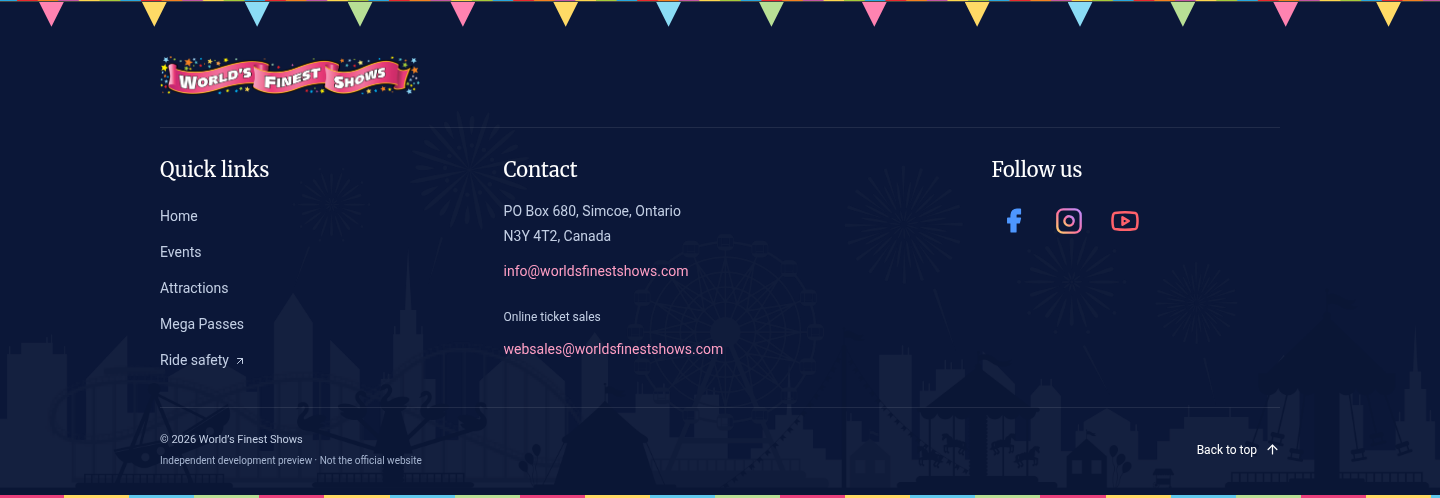
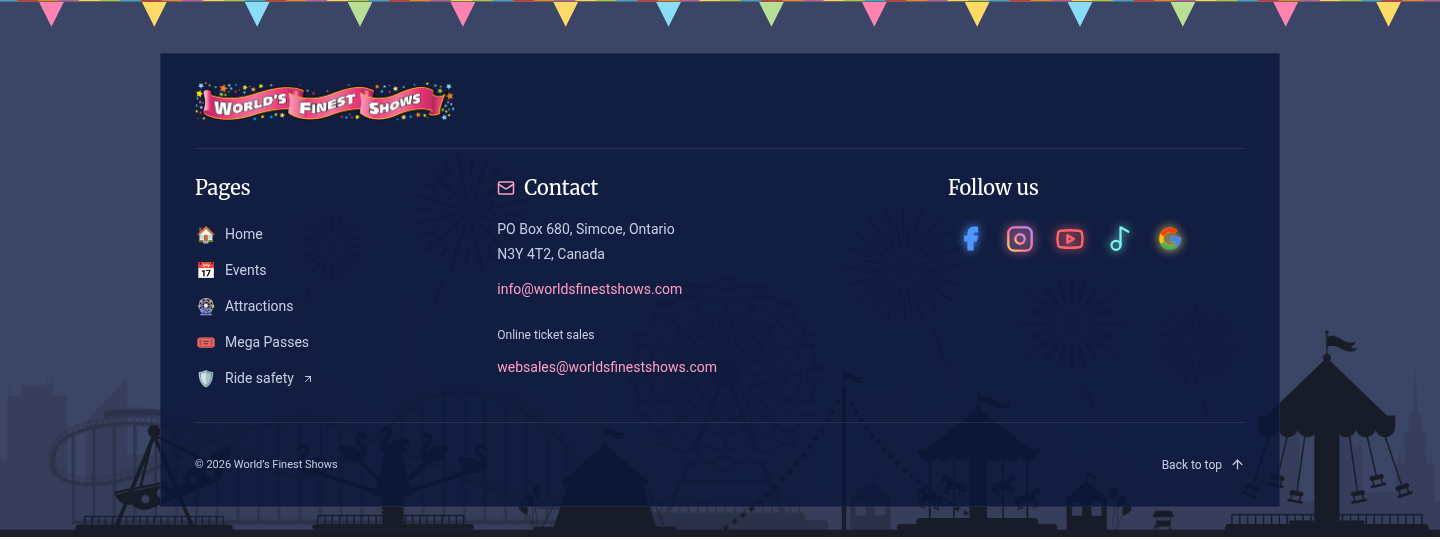
feat: frame footer on reference background and compact newsletter

diff --git a/src/components/Footer.tsx b/src/components/Footer.tsx
@@ -1,6 +1,5 @@
 import {
   Mail,
-  Link,
   Music2,
   ArrowUp,
   ArrowUpRight,
@@ -33,7 +32,7 @@ export function Footer({
         ))}
       </div>
 
-      <div className="container">
+      <div className="container footer-frame">
         <a
           className="footer-brand"
           href="#home"
@@ -53,21 +52,40 @@ export function Footer({
             className="footer-links"
             aria-labelledby="footer-links-title"
           >
-            <h2 id="footer-links-title">
-              <Link size={18} aria-hidden="true" /> Quick links
-            </h2>
+            <h2 id="footer-links-title">Pages</h2>
             <nav aria-label="Footer navigation">
-              <a href="#home">Home</a>
-              <a href="#events">Events</a>
+              <a href="#home">
+                <span className="footer-page-emoji" aria-hidden="true">
+                  🏠
+                </span>
+                Home
+              </a>
+              <a href="#events">
+                <span className="footer-page-emoji" aria-hidden="true">
+                  📅
+                </span>
+                Events
+              </a>
               <a href="#attractions" onClick={onExploreAttractions}>
+                <span className="footer-page-emoji" aria-hidden="true">
+                  🎡
+                </span>
                 Attractions
               </a>
-              <a href="#passes">Mega Passes</a>
+              <a href="#passes">
+                <span className="footer-page-emoji" aria-hidden="true">
+                  🎟
+                </span>
+                Mega Passes
+              </a>
               <a
                 href="https://www.worldsfinestshows.com/ride-safety/"
                 target="_blank"
                 rel="noreferrer"
               >
+                <span className="footer-page-emoji" aria-hidden="true">
+                  🛡
+                </span>
                 Ride safety <ArrowUpRight size={12} />
               </a>
             </nav>
@@ -168,7 +186,29 @@ export function Footer({
                 aria-label="Find World’s Finest Shows on Google"
                 title="Find us on Google"
               >
-                <svg width="26" height="26" viewBox="0 0 48 48" aria-hidden="true"><path fill="#FFC107" d="M43.6 20.5H42V20H24v8h11.3A12 12 0 1 1 32 14l5.7-5.7A20 20 0 1 0 44 24c0-1.2-.1-2.4-.4-3.5Z"/><path fill="#FF3D00" d="m6.3 14.7 6.6 4.8A12 12 0 0 1 32 14l5.7-5.7A20 20 0 0 0 6.3 14.7Z"/><path fill="#4CAF50" d="M24 44c5.2 0 9.8-2 13.3-5.2l-6.2-5.2a12 12 0 0 1-18.3-5.1l-6.6 5.1A20 20 0 0 0 24 44Z"/><path fill="#4285F4" d="M43.6 20.5H42V20H24v8h11.3a12 12 0 0 1-4.2 5.6l6.2 5.2A20 20 0 0 0 44 24c0-1.2-.1-2.4-.4-3.5Z"/></svg>
+                <svg
+                  width="26"
+                  height="26"
+                  viewBox="0 0 48 48"
+                  aria-hidden="true"
+                >
+                  <path
+                    fill="#FFC107"
+                    d="M43.6 20.5H42V20H24v8h11.3A12 12 0 1 1 32 14l5.7-5.7A20 20 0 1 0 44 24c0-1.2-.1-2.4-.4-3.5Z"
+                  />
+                  <path
+                    fill="#FF3D00"
+                    d="m6.3 14.7 6.6 4.8A12 12 0 0 1 32 14l5.7-5.7A20 20 0 0 0 6.3 14.7Z"
+                  />
+                  <path
+                    fill="#4CAF50"
+                    d="M24 44c5.2 0 9.8-2 13.3-5.2l-6.2-5.2a12 12 0 0 1-18.3-5.1l-6.6 5.1A20 20 0 0 0 24 44Z"
+                  />
+                  <path
+                    fill="#4285F4"
+                    d="M43.6 20.5H42V20H24v8h11.3a12 12 0 0 1-4.2 5.6l6.2 5.2A20 20 0 0 0 44 24c0-1.2-.1-2.4-.4-3.5Z"
+                  />
+                </svg>
               </a>
             </div>
           </section>

diff --git a/src/styles.css b/src/styles.css
@@ -1635,46 +1635,75 @@ img {
   }
 }
 
-/* Keep the newsletter below the riders' faces. */
+/* Compact, rectangular newsletter, matching the reference proportions. */
 .newsletter-section .photo-section-inner {
-  min-height: 650px;
-  align-items: end;
-  padding-top: 350px;
+  min-height: 380px;
+  align-items: center;
+  padding-top: 35px;
   padding-bottom: 35px;
   gap: 24px;
 }
 .newsletter-section .section-title {
-  align-self: end;
-  margin-bottom: 35px;
+  align-self: center;
+  margin-bottom: 0;
+}
+.newsletter-section .section-title h2 {
+  font-size: 54px;
 }
 .newsletter-section .newsletter-panel {
-  background: rgba(174, 25, 83, 0.65);
+  padding: 23px 27px;
+  background: rgba(174, 25, 83, 0.62);
   backdrop-filter: none;
 }
-@media (max-width: 780px) {
+.newsletter-panel h3 {
+  font-size: 22px;
+  margin-bottom: 8px;
+}
+.newsletter-panel p {
+  margin-bottom: 16px;
+}
+.newsletter-input input {
+  padding-top: 12px;
+  padding-bottom: 12px;
+}
+@media (max-width: 900px) {
   .newsletter-section .photo-section-inner {
-    min-height: 700px;
-    padding-top: 320px;
-    gap: 22px;
+    min-height: 360px;
+    gap: 20px;
+  }
+  .newsletter-section .section-title h2 {
+    font-size: 44px;
+  }
+  .newsletter-section .section-title > img {
+    width: 55px;
+    height: 55px;
+  }
+  .newsletter-section .newsletter-panel {
+    padding: 22px;
   }
 }
 @media (max-width: 550px) {
   .newsletter-section {
-    background-size: auto 380px;
-    background-position: top center;
-    background-color: #0b1738;
+    background-size: cover;
+    background-position: center;
   }
   .newsletter-section .photo-section-inner {
-    min-height: 0;
-    padding-top: 395px;
-    padding-bottom: 30px;
-    gap: 22px;
+    min-height: 390px;
+    padding-top: 32px;
+    padding-bottom: 32px;
+    gap: 24px;
   }
   .newsletter-section .section-title {
     align-self: stretch;
-    margin-bottom: 0;
+  }
+  .newsletter-section .section-title h2 {
+    font-size: 38px;
+  }
+  .newsletter-section .section-title > img {
+    width: 47px;
+    height: 47px;
   }
   .newsletter-section .newsletter-panel {
-    background: rgba(174, 25, 83, 0.7);
+    padding: 22px;
   }
 }

diff --git a/src/components/Footer.css b/src/components/Footer.css
@@ -293,3 +293,67 @@
 .social-google {
   color: #ffda66;
 }
+
+/* A single inset panel on the original carnival skyline background. */
+.site-footer {
+  background: #3b4565;
+  padding-top: 52px;
+  padding-bottom: 30px;
+}
+.site-footer::before {
+  opacity: 0.6;
+  mix-blend-mode: multiply;
+}
+.footer-frame {
+  background: rgba(10, 22, 57, 0.82);
+  border: 1px solid #ffffff12;
+  padding: 28px 34px 19px;
+}
+.footer-grid {
+  gap: 35px;
+  grid-template-columns: 0.9fr 1.4fr 1fr;
+  margin-top: 22px;
+  padding-top: 25px;
+  padding-bottom: 25px;
+}
+.footer-page-emoji {
+  font-size: 16px;
+  width: 22px;
+  text-align: center;
+  flex-shrink: 0;
+  line-height: 1.4;
+}
+.footer-links nav a {
+  gap: 8px;
+}
+@media (max-width: 640px) {
+  .site-footer {
+    padding-top: 40px;
+    padding-bottom: 24px;
+  }
+  .footer-frame {
+    padding: 23px 20px 16px;
+  }
+  .footer-grid {
+    grid-template-columns: 1fr;
+    gap: 25px;
+  }
+  .footer-brand img {
+    max-width: 100%;
+  }
+  .footer-email {
+    font-size: 13px;
+  }
+  .footer-links nav {
+    column-gap: 10px;
+  }
+  .footer-links nav a {
+    font-size: 13px;
+    gap: 5px;
+  }
+}
+@media (max-width: 360px) {
+  .footer-links nav {
+    grid-template-columns: 1fr;
+  }
+}
